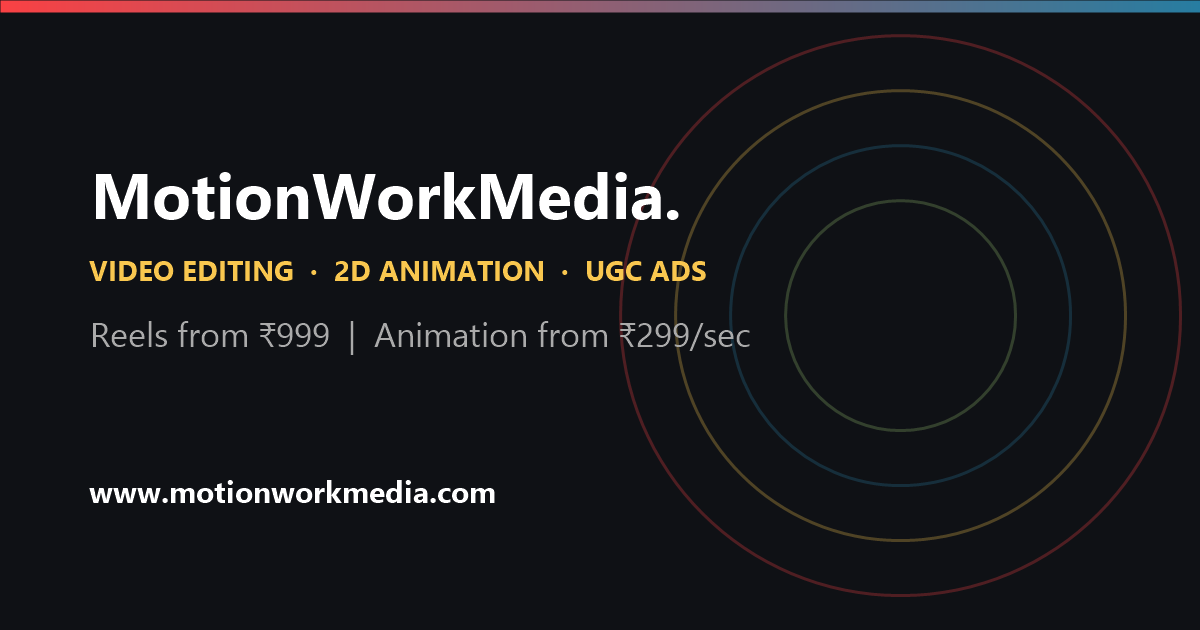
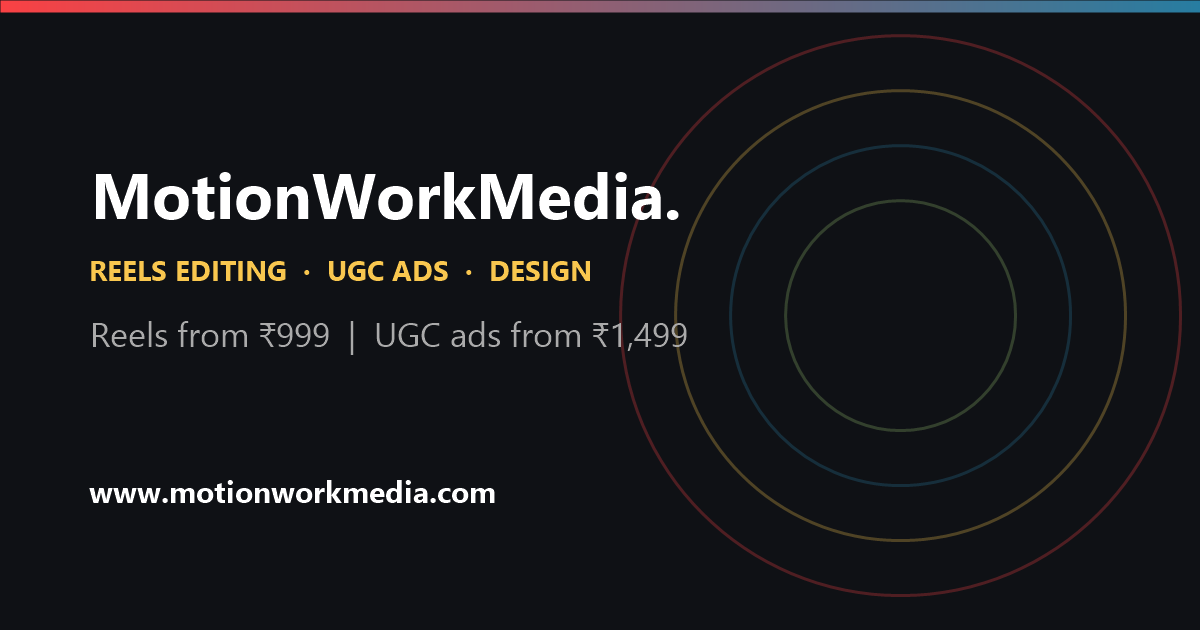
Remove 2D animation and character design services

Changed region(s): [[0.0617, 0.3921, 0.5858, 0.4524], [0.3083, 0.5127, 0.6167, 0.573]]

diff --git a/index.html b/index.html
@@ -3,8 +3,8 @@
 <head>
     <meta charset="UTF-8">
     <meta name="viewport" content="width=device-width, initial-scale=1.0">
-    <title>Video Editing, 2D Animation & UGC Ads | MotionWorkMedia</title>
-    <meta name="description" content="MotionWorkMedia edits Reels and Shorts from ₹999, makes UGC ads, 2D animation and character design for brands and creators in India. Get a quote.">
+    <title>Reels Editing, UGC Ads & Video Editing | MotionWorkMedia</title>
+    <meta name="description" content="MotionWorkMedia edits Reels and Shorts from ₹999, makes UGC ads, social media posts and websites for brands and creators in India. Get a quote.">
     <link rel="canonical" href="https://www.motionworkmedia.com/">
     <meta name="robots" content="index, follow, max-image-preview:large">
     <meta name="theme-color" content="#0f1115">
@@ -17,13 +17,13 @@
     <meta property="og:type" content="website">
     <meta property="og:site_name" content="MotionWorkMedia">
     <meta property="og:locale" content="en_IN">
-    <meta property="og:title" content="MotionWorkMedia: Video Editing, 2D Animation & UGC Ads">
-    <meta property="og:description" content="Reels editing from ₹999, UGC ads, 2D animation, character design and web development. See our work and pricing.">
+    <meta property="og:title" content="MotionWorkMedia: Reels Editing, UGC Ads & Video Editing">
+    <meta property="og:description" content="Reels editing from ₹999, UGC ads from ₹1,499, social media design and web development. See our work and pricing.">
     <meta property="og:url" content="https://www.motionworkmedia.com/">
     <meta property="og:image" content="https://www.motionworkmedia.com/og-image.png">
     <meta property="og:image:width" content="1200">
     <meta property="og:image:height" content="630">
-    <meta property="og:image:alt" content="MotionWorkMedia: video editing, 2D animation and UGC ads">
+    <meta property="og:image:alt" content="MotionWorkMedia: Reels editing, UGC ads and video editing">
     <meta name="twitter:card" content="summary_large_image">
 
     <link rel="preconnect" href="https://fonts.googleapis.com">
@@ -44,10 +44,10 @@
           "url": "https://www.motionworkmedia.com/",
           "logo": "https://www.motionworkmedia.com/apple-touch-icon.png",
           "image": "https://www.motionworkmedia.com/og-image.png",
-          "description": "Creative agency for short-form video editing, UGC ads, 2D animation, character design, social media design and web development.",
+          "description": "Creative agency for short-form video editing, UGC ads, music video editing, social media design and web development.",
           "telephone": "+91-7240517339",
           "areaServed": "IN",
-          "priceRange": "₹299 - ₹14,999",
+          "priceRange": "₹499 - ₹14,999",
           "sameAs": [
             "https://www.instagram.com/motionwork.media/"
           ],
@@ -57,8 +57,6 @@
             "itemListElement": [
               { "@type": "Offer", "itemOffered": { "@type": "Service", "name": "Shorts & Reels Editing" }, "price": "999", "priceCurrency": "INR", "description": "Per video. Retention editing and motion graphics." },
               { "@type": "Offer", "itemOffered": { "@type": "Service", "name": "UGC Ads" }, "price": "1499", "priceCurrency": "INR", "description": "Per video. Hooks, script help, ad optimised." },
-              { "@type": "Offer", "itemOffered": { "@type": "Service", "name": "Character Design" }, "price": "3999", "priceCurrency": "INR", "description": "Per character. Custom vector art, rigging ready, multiple angles." },
-              { "@type": "Offer", "itemOffered": { "@type": "Service", "name": "2D Animation" }, "price": "299", "priceCurrency": "INR", "description": "Per second of animation. Smooth motion and storyboarding." },
               { "@type": "Offer", "itemOffered": { "@type": "Service", "name": "Social Media Post Design" }, "price": "499", "priceCurrency": "INR", "description": "Per post. Brand aligned and feed ready." },
               { "@type": "Offer", "itemOffered": { "@type": "Service", "name": "Website Development" }, "price": "14999", "priceCurrency": "INR", "description": "Starting price. Responsive and SEO ready." }
             ]
@@ -77,7 +75,6 @@
           "@id": "https://www.motionworkmedia.com/#faq",
           "mainEntity": [
             { "@type": "Question", "name": "How much does Reels or Shorts editing cost at MotionWorkMedia?", "acceptedAnswer": { "@type": "Answer", "text": "Shorts and Reels editing starts at ₹999 per video and includes retention editing and motion graphics. UGC ad videos start at ₹1,499 per video." } },
-            { "@type": "Question", "name": "How is 2D animation priced?", "acceptedAnswer": { "@type": "Answer", "text": "2D animation is priced at ₹299 per second of finished animation, with storyboarding included. A 30-second animation therefore starts at about ₹8,970. Custom characters are designed separately at ₹3,999 per character." } },
             { "@type": "Question", "name": "How do I get a quote or start a project?", "acceptedAnswer": { "@type": "Answer", "text": "Fill in the project form on the website or message MotionWorkMedia on WhatsApp at +91 72405 17339 with your brief, references and deadline. You get a quote based on the service and length you need." } },
             { "@type": "Question", "name": "Does MotionWorkMedia also design social posts and build websites?", "acceptedAnswer": { "@type": "Answer", "text": "Yes. Social media post design starts at ₹499 per post, and responsive, SEO-ready website development starts at ₹14,999." } }
           ]
@@ -208,6 +205,7 @@
 
         /* --- CARDS --- */
         .grid-3 { display: grid; grid-template-columns: repeat(auto-fit, minmax(320px, 1fr)); gap: 30px; }
+        .grid-4 { display: grid; grid-template-columns: repeat(auto-fit, minmax(250px, 1fr)); gap: 24px; }
 
         .service-card {
             background: rgba(255,255,255,0.03); border: 1px solid rgba(255,255,255,0.1);
@@ -526,12 +524,12 @@
                 Available for Projects
             </div>
 
-            <h1 class="hero-kicker">Video Editing, 2D Animation &amp; UGC Ads Agency</h1>
+            <h1 class="hero-kicker">Reels Editing, UGC Ads &amp; Video Editing Agency</h1>
 
             <p class="hero-title">We Don't Just Edit.<br>We <span class="gradient-text">Ignite.</span></p>
 
             <p style="max-width: 640px; margin: 0 auto 40px; color: var(--text-grey); font-size: 1.2rem;">
-                MotionWorkMedia is a creative agency that edits Reels and Shorts, makes UGC ads, and creates 2D animation, character design and social media designs for brands and creators.
+                MotionWorkMedia is a creative agency that edits Reels, Shorts and music videos, makes UGC ads, and designs social media posts and websites for brands and creators.
             </p>
 
             <div style="display: flex; gap: 20px; justify-content: center; flex-wrap: wrap;">
@@ -614,12 +612,12 @@
     <section id="services" class="section-padding">
         <div class="container">
             <div class="text-center" style="margin-bottom: 50px;">
-                <h2 class="section-title">Video Editing, Animation &amp; Design Pricing</h2>
-                <p class="section-sub">Transparent pricing in Indian rupees. Shorts and Reels editing starts at ₹999 per video, UGC ads at ₹1,499 per video, and 2D animation at ₹299 per second.</p>
+                <h2 class="section-title">Video Editing &amp; Design Pricing</h2>
+                <p class="section-sub">Transparent pricing in Indian rupees. Shorts and Reels editing starts at ₹999 per video, UGC ads at ₹1,499 per video, and social media post design at ₹499 per post.</p>
                 <a href="https://docs.google.com/forms/d/e/1FAIpQLSesAOYE52B97PbP-AQnBQZ3xBTIR0ymVVCViyEOSLxhz5Xndg/viewform?usp=dialog" target="_blank" rel="noopener" class="btn" style="margin-top: 25px;">Start Project</a>
             </div>
 
-            <div class="grid-3">
+            <div class="grid-4">
                 <div class="service-card s-video">
                     <h3>Shorts &amp; Reels Editing</h3>
                     <p class="desc">Instagram Reels and YouTube Shorts edited to keep viewers watching.</p>
@@ -633,22 +631,6 @@
                     <p class="desc">User-generated style ad videos for Meta, Instagram and YouTube campaigns.</p>
                     <div class="price-tag">₹1,499<span>/video</span></div>
                     <ul class="features"><li><i class="fas fa-check" aria-hidden="true"></i> Authentic Hooks</li><li><i class="fas fa-check" aria-hidden="true"></i> Script Help</li><li><i class="fas fa-check" aria-hidden="true"></i> Ad Optimised</li></ul>
-                    <a href="https://docs.google.com/forms/d/e/1FAIpQLSesAOYE52B97PbP-AQnBQZ3xBTIR0ymVVCViyEOSLxhz5Xndg/viewform?usp=dialog" target="_blank" rel="noopener" class="btn" style="width:100%; text-align:center; font-size:0.8rem; margin-top:20px;">Order Now</a>
-                </div>
-
-                <div class="service-card s-char">
-                    <h3>Character Design</h3>
-                    <p class="desc">Custom vector characters for animation, mascots and kids content.</p>
-                    <div class="price-tag">₹3,999<span>/char</span></div>
-                    <ul class="features"><li><i class="fas fa-check" aria-hidden="true"></i> Custom Vector Art</li><li><i class="fas fa-check" aria-hidden="true"></i> Rigging Ready</li><li><i class="fas fa-check" aria-hidden="true"></i> Multiple Angles</li></ul>
-                    <a href="https://docs.google.com/forms/d/e/1FAIpQLSesAOYE52B97PbP-AQnBQZ3xBTIR0ymVVCViyEOSLxhz5Xndg/viewform?usp=dialog" target="_blank" rel="noopener" class="btn" style="width:100%; text-align:center; font-size:0.8rem; margin-top:20px;">Order Now</a>
-                </div>
-
-                <div class="service-card s-video">
-                    <h3>2D Animation</h3>
-                    <p class="desc">Animated stories, explainers and kids episodes, priced per second of finished animation.</p>
-                    <div class="price-tag">₹299<span>/sec</span></div>
-                    <ul class="features"><li><i class="fas fa-check" aria-hidden="true"></i> Smooth Motion</li><li><i class="fas fa-check" aria-hidden="true"></i> Storyboarding</li></ul>
                     <a href="https://docs.google.com/forms/d/e/1FAIpQLSesAOYE52B97PbP-AQnBQZ3xBTIR0ymVVCViyEOSLxhz5Xndg/viewform?usp=dialog" target="_blank" rel="noopener" class="btn" style="width:100%; text-align:center; font-size:0.8rem; margin-top:20px;">Order Now</a>
                 </div>
 
@@ -675,8 +657,8 @@
         <div class="container text-center">
             <h2 class="section-title">About MotionWorkMedia</h2>
             <div class="about-text">
-                <p>MotionWorkMedia is a creative agency for video editing, 2D animation and design. We work with brands, YouTube channels, musicians and creators who need content that holds attention, from 30-second Reels to full animated episodes.</p>
-                <p>Our portfolio includes 2D animated kids stories and songs published on the Kidpid Toons YouTube channel, music video edits for artist Utkarsh RaaZ, short-form Reels, social media ad designs and landing page UI. Every service has a listed starting price, so you know the cost before you brief us.</p>
+                <p>MotionWorkMedia is a creative agency for video editing and design. We work with brands, YouTube channels, musicians and creators who need content that holds attention, from 30-second Reels and UGC ads to full music videos.</p>
+                <p>Our portfolio includes music video edits for artist Utkarsh RaaZ, short-form Reels, social media ad designs and landing page UI. Every service has a listed starting price, so you know the cost before you brief us.</p>
             </div>
 
             <h2 class="section-title" style="margin-top: 90px;">How to Start a Project</h2>
@@ -689,12 +671,12 @@
                 <div class="step">
                     <div class="step-num gradient-text">02</div>
                     <h3>Get a quote</h3>
-                    <p>We confirm the scope and price based on the listed rates, such as ₹999 per Reel or ₹299 per second of animation.</p>
+                    <p>We confirm the scope and price based on the listed rates, such as ₹999 per Reel or ₹1,499 per UGC ad.</p>
                 </div>
                 <div class="step">
                     <div class="step-num gradient-text">03</div>
                     <h3>We create</h3>
-                    <p>We edit, animate or design your project and share it with you for review.</p>
+                    <p>We edit or design your project and share it with you for review.</p>
                 </div>
                 <div class="step">
                     <div class="step-num gradient-text">04</div>
@@ -716,10 +698,6 @@
                     <p>Shorts and Reels editing starts at ₹999 per video and includes retention editing and motion graphics. UGC ad videos start at ₹1,499 per video.</p>
                 </details>
                 <details class="faq-item">
-                    <summary>How is 2D animation priced?</summary>
-                    <p>2D animation is priced at ₹299 per second of finished animation, with storyboarding included. A 30-second animation therefore starts at about ₹8,970. Custom characters are designed separately at ₹3,999 per character.</p>
-                </details>
-                <details class="faq-item">
                     <summary>How do I get a quote or start a project?</summary>
                     <p>Fill in the project form on the website or message MotionWorkMedia on WhatsApp at +91 72405 17339 with your brief, references and deadline. You get a quote based on the service and length you need.</p>
                 </details>
@@ -736,7 +714,7 @@
         <div class="container">
             <a href="/" class="logo footer-logo">MotionWorkMedia<span>.</span></a>
             <p class="footer-contact">
-                Video editing, 2D animation &amp; design agency<br>
+                Reels editing, UGC ads &amp; design agency<br>
                 WhatsApp / Call: <a href="tel:+917240517339">+91 72405 17339</a> ·
                 <a href="https://docs.google.com/forms/d/e/1FAIpQLSesAOYE52B97PbP-AQnBQZ3xBTIR0ymVVCViyEOSLxhz5Xndg/viewform?usp=dialog" target="_blank" rel="noopener">Project form</a>
             </p>
